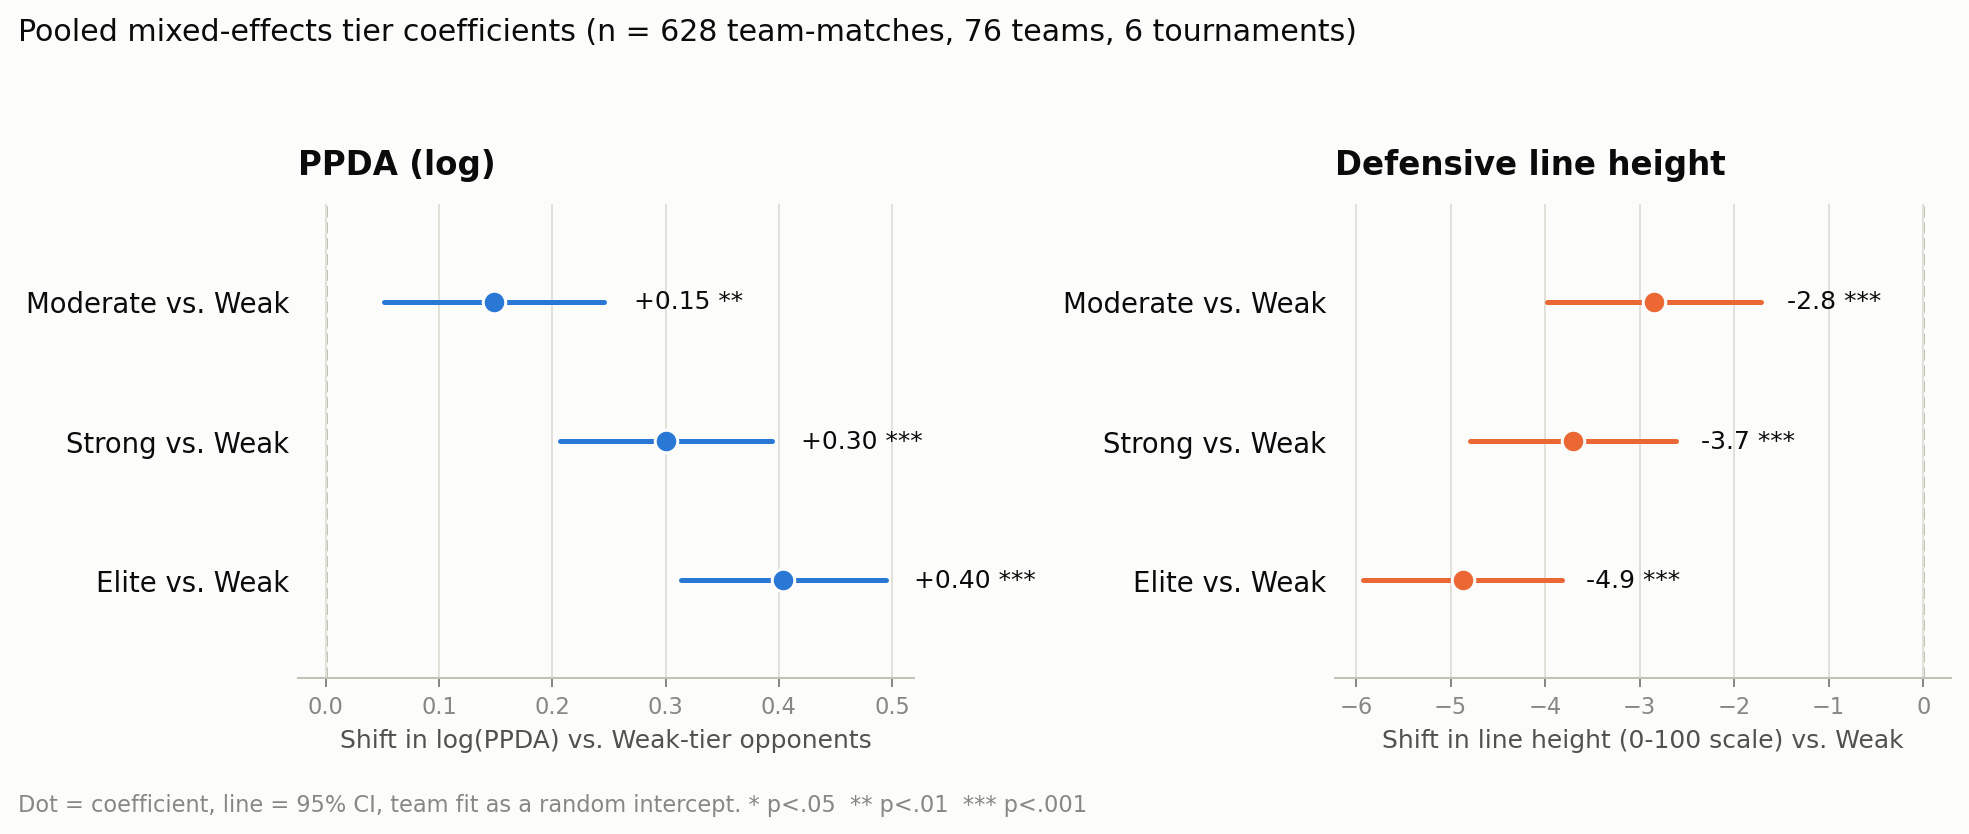
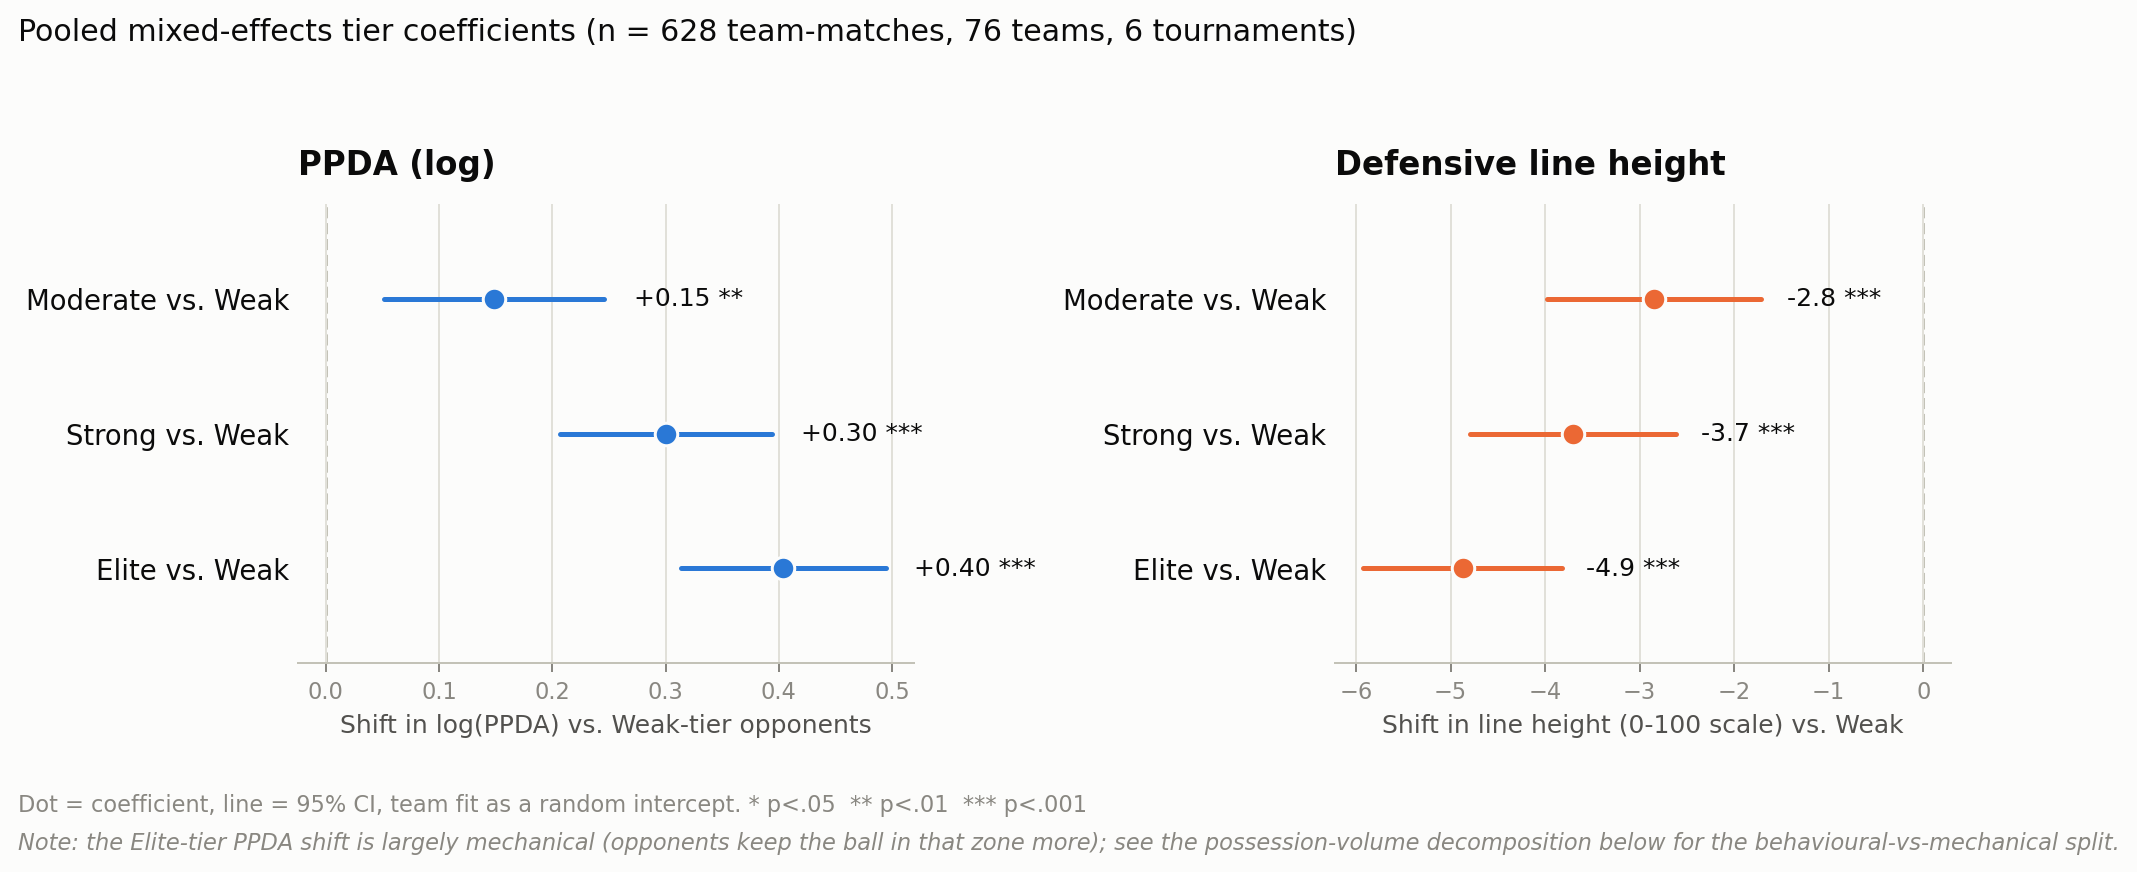
forest plot: caption the mechanical Elite-tier PPDA effect

diff --git a/scripts/viz_forest_plot.py b/scripts/viz_forest_plot.py
@@ -117,7 +117,11 @@ def main():
     fig.text(0.01, -0.02,
               "Dot = coefficient, line = 95% CI, team fit as a random intercept. * p<.05  ** p<.01  *** p<.001",
               fontsize=9, color=MUTED, ha="left")
-    fig.tight_layout(rect=(0, 0.02, 1, 0.97))
+    fig.text(0.01, -0.07,
+              "Note: the Elite-tier PPDA shift is largely mechanical (opponents keep the ball in that zone "
+              "more); see the possession-volume decomposition below for the behavioural-vs-mechanical split.",
+              fontsize=9, color=MUTED, ha="left", style="italic")
+    fig.tight_layout(rect=(0, 0.04, 1, 0.97))
 
     out_path = out_dir / "forest_plot_tier_effects.png"
     fig.savefig(out_path, dpi=180, facecolor=SURFACE, bbox_inches="tight")
